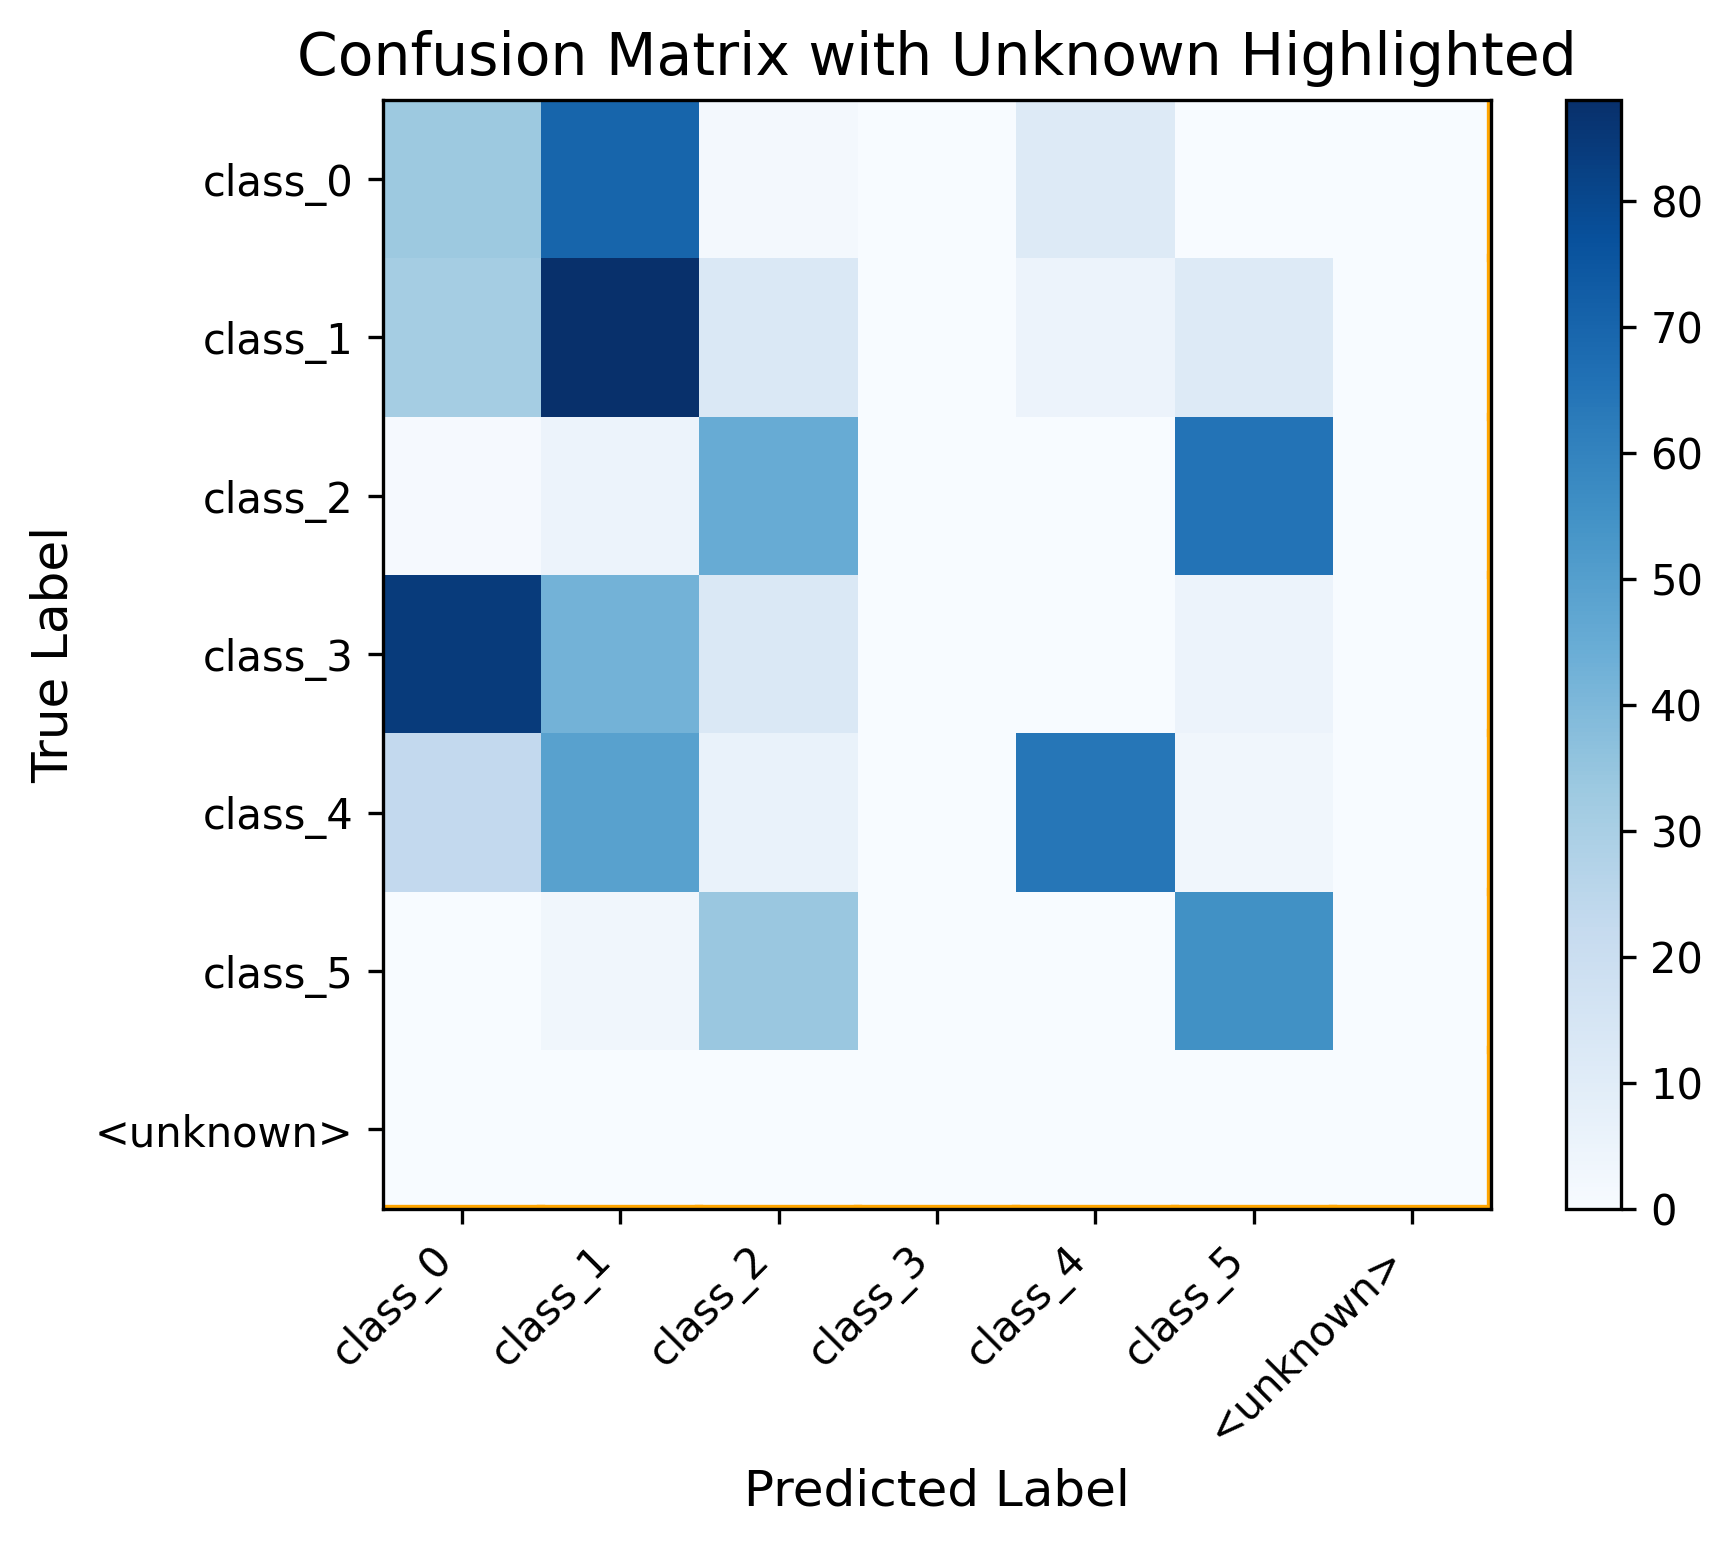
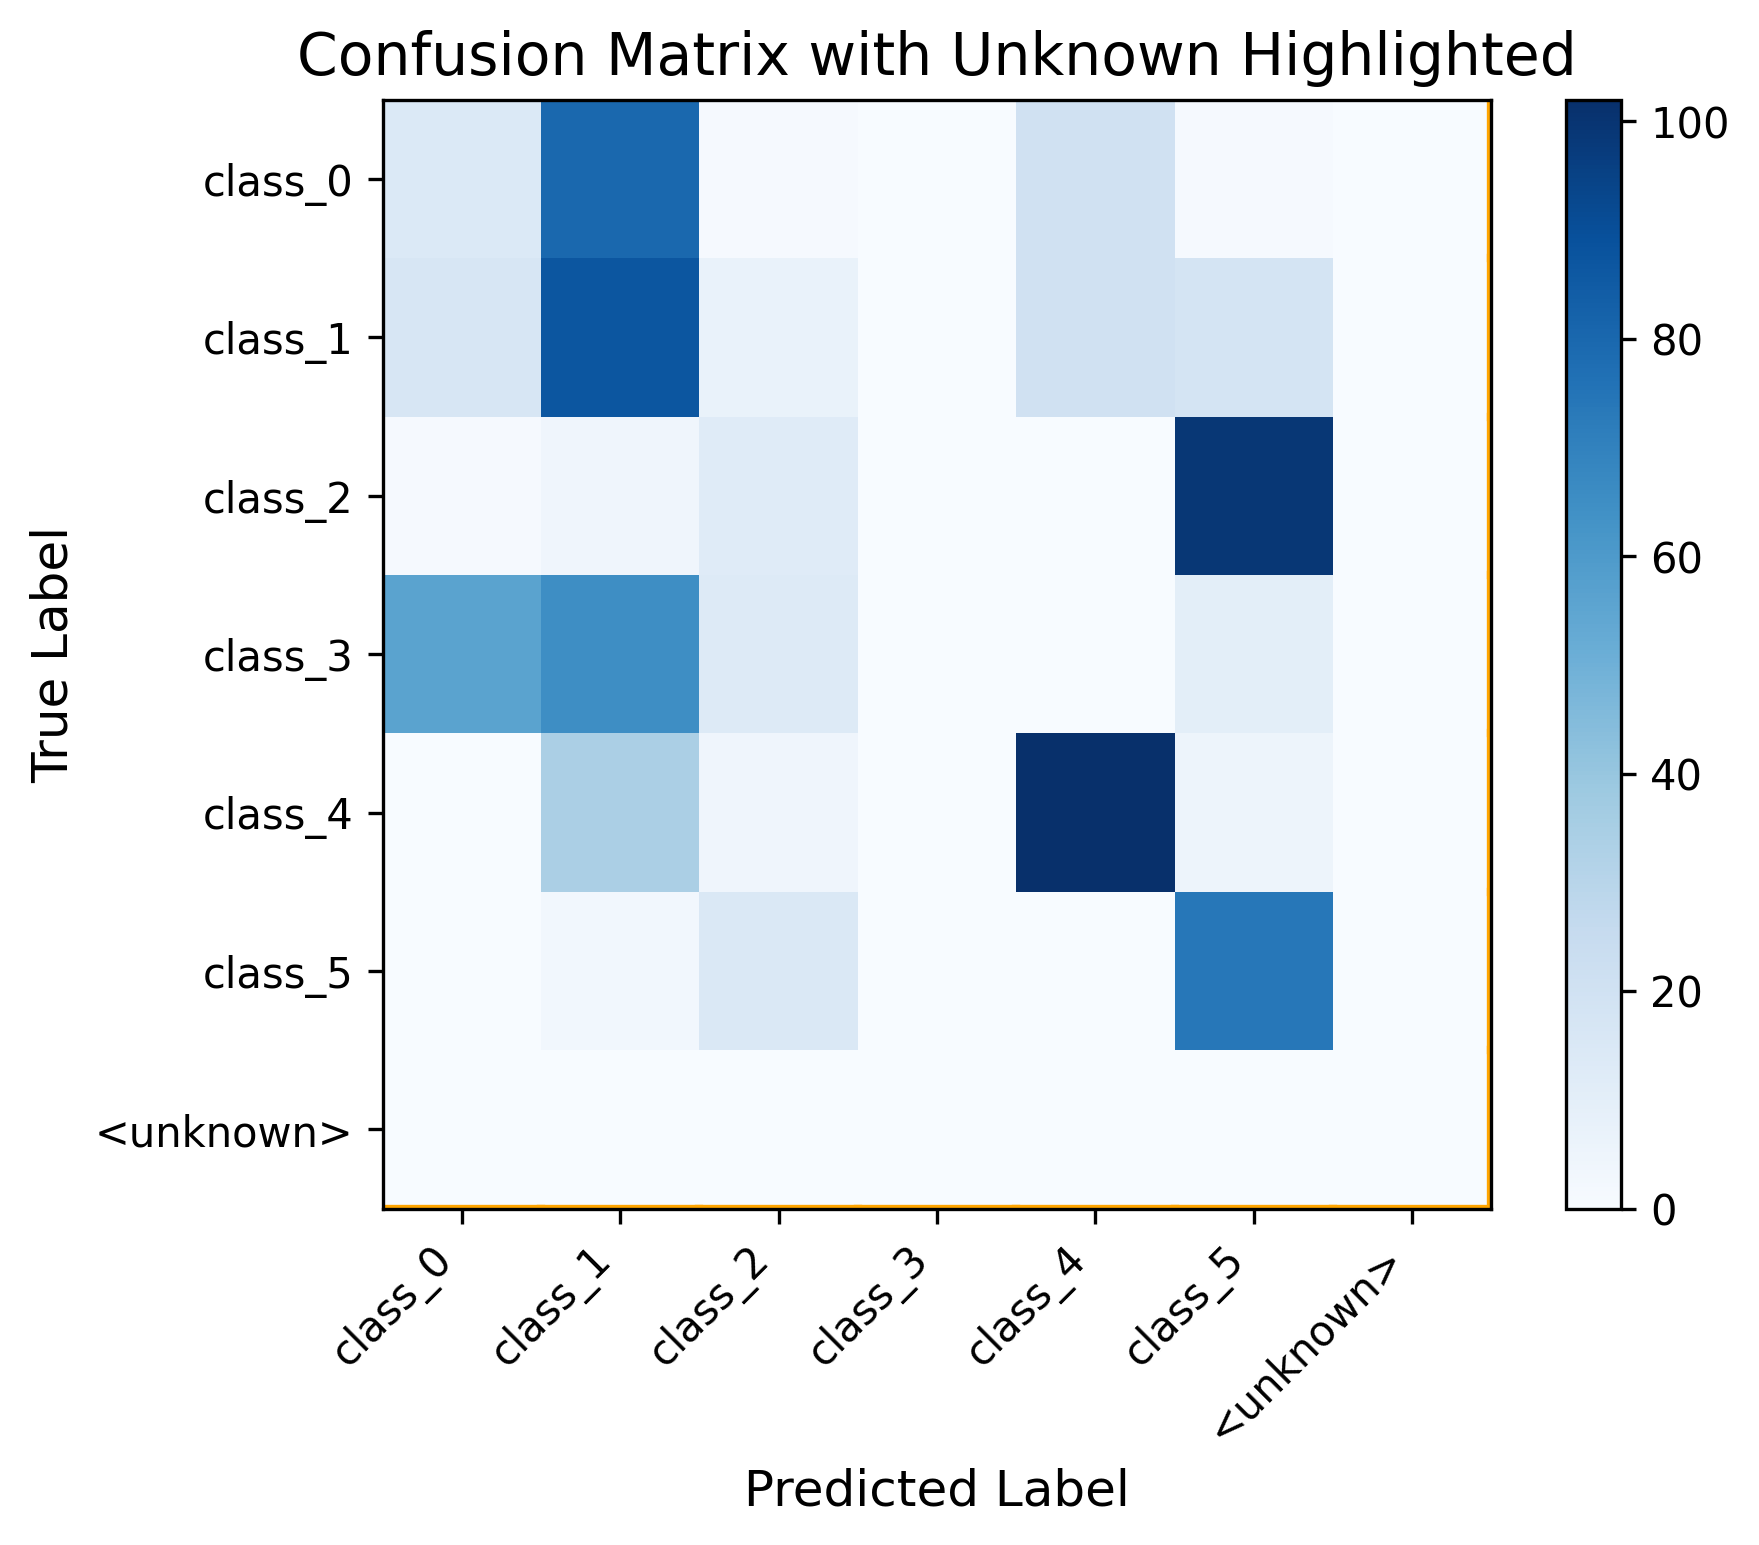
For this branch, memory issue tackled. Bottlenect(Resnet47) could be used for better performance.

diff --git a/trainer.py b/trainer.py
@@ -34,7 +34,7 @@ class Trainer:
         self.num_new_cls = []
         self.dataset = GXWData()  
         # self.dataset = Cifar100()  # 这里可以选择不同的数据集
-        self.model = PreResNet(32,init_cls).cuda()        # 32 for basicblock   # 47 for bottleneck   
+        self.model = PreResNet(47,init_cls).cuda()        # 32 for basicblock   # 47 for bottleneck   
         print(self.model)
         #self.model = nn.DataParallel(self.model, device_ids=[0,1])
         self.model = self.model.cuda()  # 将模型移动到 GPU 0
@@ -82,7 +82,7 @@ class Trainer:
     def expand_model(self, new_cls):
         old_state_dict = self.model.state_dict()
         # define new model with expanded fc layer
-        self.model = PreResNet(32, self.total_cls + new_cls).cuda()     
+        self.model = PreResNet(47, self.total_cls + new_cls).cuda()     
         new_state_dict = self.model.state_dict()
 
         for name, param in old_state_dict.items():
@@ -275,7 +275,7 @@ class Trainer:
             print("seen cls number : ", self.seen_cls)
             val_xs, val_ys = exemplar.get_exemplar_val()
             val_bias_data = DataLoader(BatchData(val_xs, val_ys, self.input_transform),
-                        batch_size=batch_size*10, shuffle=True, drop_last=False)    
+                        batch_size=batch_size, shuffle=True, drop_last=False)    
             val_acc.append([])
             val_acc_noBiC.append([])
             test_acc_in_training_process.append([])      
@@ -308,7 +308,7 @@ class Trainer:
                 self.evt_layer = EVTLayer(tail_size=10)  # tail size 可调
 
             all_data = DataLoader(BatchData(train_xs, train_ys, self.input_transform_eval), 
-                                batch_size=int(len(train)/3), shuffle=True)  
+                                batch_size=int(128), shuffle=True)  
             all_features = []
             all_labels = []
 
@@ -321,14 +321,15 @@ class Trainer:
                     all_features.append(features)
                     all_labels.append(label)
 
-            all_features = torch.cat(all_features, dim=0)
-            all_labels = torch.cat(all_labels, dim=0)
-            print("all features shape : ", all_features.shape)
-            print("all labels shape : ", all_labels.shape)
+                all_features = torch.cat(all_features, dim=0)
+                all_labels = torch.cat(all_labels, dim=0)
+                print("all features shape : ", all_features.shape)
+                print("all labels shape : ", all_labels.shape)
 
-            centroids = self.evt_layer.compute_centroids(all_features, all_labels, self.seen_cls)
-            self.centroids = centroids  #样本中心
-            self.evt_layer.fit_weibull(all_features, all_labels, centroids)
+                centroids = self.evt_layer.compute_centroids(all_features, all_labels, self.seen_cls)
+                self.centroids = centroids  #样本中心
+                self.evt_layer.fit_weibull(all_features, all_labels, centroids)
+
             exemplar.update(train=(train_xs, train_ys),val=(val_xs, val_ys),features=all_features,labels=all_labels,centroids=centroids,model_images=train_xs)
 
             heatmap_name = f"heatmap_task_{inc_i}_before_BiC.png"
@@ -576,7 +577,7 @@ class Trainer:
             # p = self.bias_forward(p)    #no meed for bias_forward in initial training
             loss = criterion(p[:,:self.seen_cls], label)
             loss.backward(retain_graph=True)
-            if (i + 1) % 13 == 0:
+            if (i + 1) % 10 == 0:
                 optimizer.step()
                 optimizer.zero_grad()
             losses.append(loss.item())
@@ -608,7 +609,7 @@ class Trainer:
             loss = loss_soft_target * T * T + (1-alpha) * loss_hard_target
 
             loss.backward(retain_graph=True)
-            if (i + 1) % 13 == 0:
+            if (i + 1) % 8 == 0:
                 optimizer.step()
                 optimizer.zero_grad()
                 
@@ -628,7 +629,7 @@ class Trainer:
             p = self.bias_forward(p)
             loss = criterion(p[:,:self.seen_cls], label)
             loss.backward()
-            if (i + 1) % 13 == 0:
+            if (i + 1) % 4 == 0:
                 optimizer.step()
                 optimizer.zero_grad()
             optimizer.step()

diff --git a/main.py b/main.py
@@ -6,8 +6,8 @@ from utils import *
 import argparse
 
 parser = argparse.ArgumentParser(description='Incremental Learning BIC')
-parser.add_argument('--batch_size', default = 10, type = int)
-parser.add_argument('--epoch', default = 125, type = int) # small values for debug
+parser.add_argument('--batch_size', default = 8, type = int)
+parser.add_argument('--epoch', default = 120, type = int) # small values for debug
 parser.add_argument('--lr', default = 0.01, type = float) 
 parser.add_argument('--max_size', default = 400, type = int)
 parser.add_argument('--init_cls', default = 0, type = int)  #### total_cls=100 -> init_cls=0

diff --git a/model.py b/model.py
@@ -93,7 +93,7 @@ class Bottleneck(nn.Module):
 
 class PreResNet(nn.Module):
 
-    def __init__(self, depth, num_classes=1000, block_name='BasicBlock'):
+    def __init__(self, depth, num_classes=1000, block_name='Bottleneck'):
         super(PreResNet, self).__init__()
         # Model type specifies number of layers for CIFAR-10 model
         if block_name.lower() == 'basicblock':
